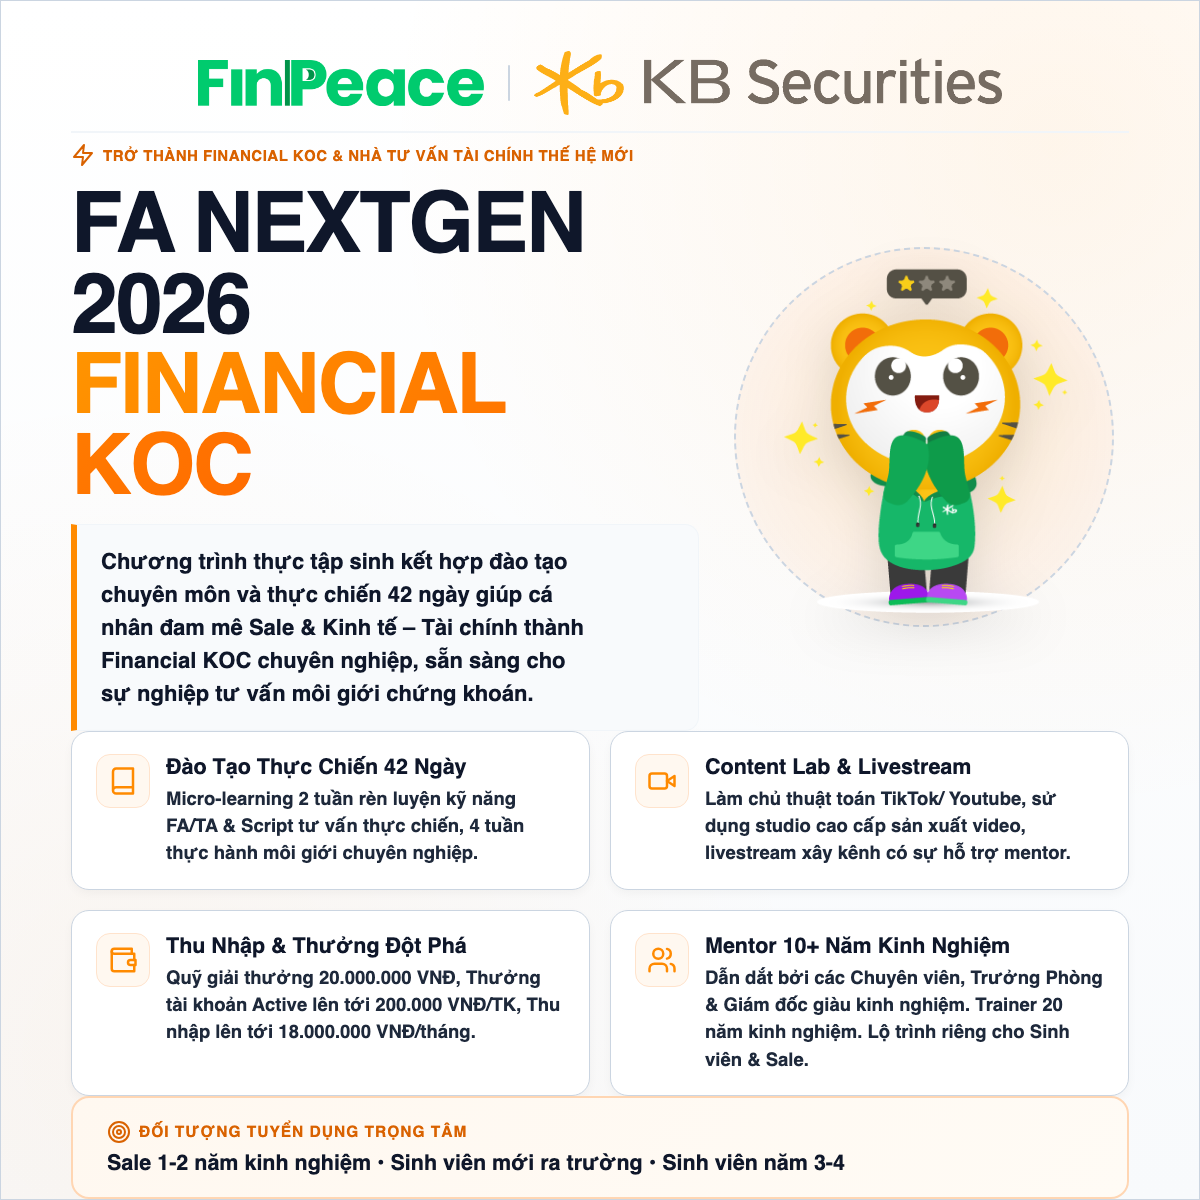
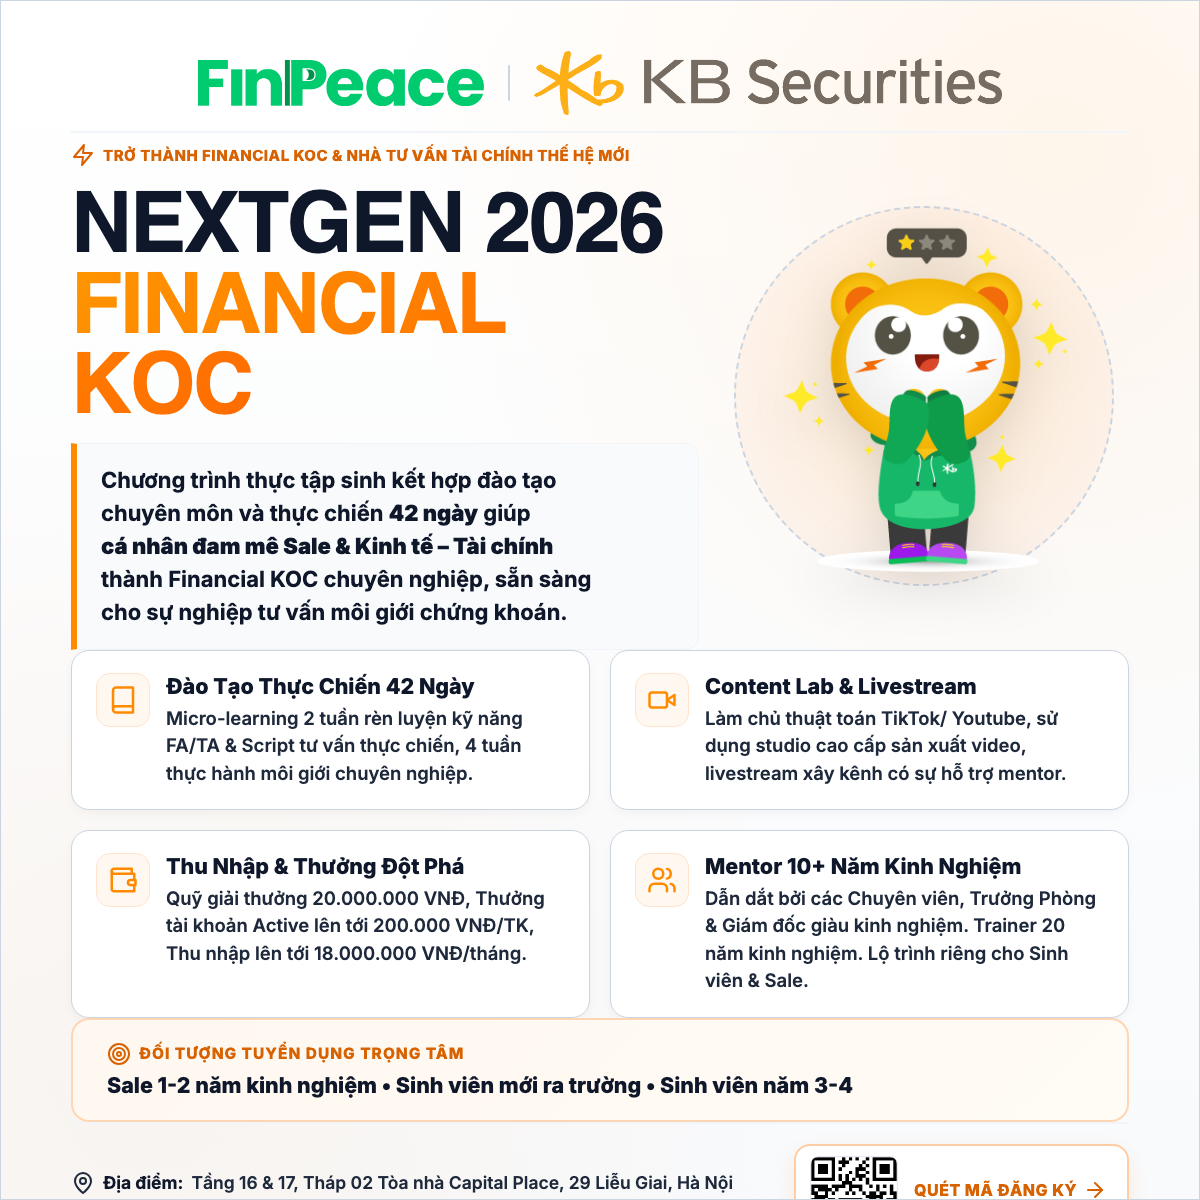
Update program branding name from FA NextGen 2026 to NextGen 2026 across all files

diff --git a/index.html b/index.html
@@ -3,11 +3,11 @@
 <head>
     <meta charset="UTF-8">
     <meta name="viewport" content="width=device-width, initial-scale=1.0">
-    <title>FA NextGen 2026 – Tuyển dụng Chuyên viên Tư vấn Đầu tư Thế hệ Mới</title>
-    <meta name="description" content="FA NextGen 2026 – Chương trình thực tập sinh kết hợp đào tạo chuyên môn và thực chiến 42 ngày giúp cá nhân đam mê Sale hoặc yêu thích làm việc trong các lĩnh vực Kinh tế – Tài chính thành Financial KOC chuyên nghiệp, sẵn sàng cho sự nghiệp tư vấn môi giới đầu tư chứng khoán. Đăng ký ngay!">
-    <meta name="keywords" content="FA NextGen 2026, KBSV, FinPeace, tuyển dụng, chứng khoán, Financial KOC, sale, sinh viên, đào tạo, KB Securities, thực tập">
-    <meta property="og:title" content="FA NextGen 2026 – Thế hệ Tư vấn - Môi giới Không Giới Hạn">
-    <meta property="og:description" content="FA NextGen 2026 – Chương trình thực tập sinh kết hợp đào tạo chuyên môn và thực chiến 42 ngày giúp cá nhân đam mê Sale hoặc yêu thích làm việc trong các lĩnh vực Kinh tế – Tài chính thành Financial KOC chuyên nghiệp, sẵn sàng cho sự nghiệp tư vấn môi giới đầu tư chứng khoán.">
+    <title>NextGen 2026 – Tuyển dụng Chuyên viên Tư vấn Đầu tư Thế hệ Mới</title>
+    <meta name="description" content="NextGen 2026 – Chương trình thực tập sinh kết hợp đào tạo chuyên môn và thực chiến 42 ngày giúp cá nhân đam mê Sale hoặc yêu thích làm việc trong các lĩnh vực Kinh tế – Tài chính thành Financial KOC chuyên nghiệp, sẵn sàng cho sự nghiệp tư vấn môi giới đầu tư chứng khoán. Đăng ký ngay!">
+    <meta name="keywords" content="NextGen 2026, KBSV, FinPeace, tuyển dụng, chứng khoán, Financial KOC, sale, sinh viên, đào tạo, KB Securities, thực tập">
+    <meta property="og:title" content="NextGen 2026 – Thế hệ Tư vấn - Môi giới Không Giới Hạn">
+    <meta property="og:description" content="NextGen 2026 – Chương trình thực tập sinh kết hợp đào tạo chuyên môn và thực chiến 42 ngày giúp cá nhân đam mê Sale hoặc yêu thích làm việc trong các lĩnh vực Kinh tế – Tài chính thành Financial KOC chuyên nghiệp, sẵn sàng cho sự nghiệp tư vấn môi giới đầu tư chứng khoán.">
     <meta property="og:type" content="website">
     <meta property="og:image" content="https://nextgen.finpeace.cloud/assets/images/og-share.png?v=3">
     <meta property="og:image:width" content="1200">
@@ -74,7 +74,7 @@
                 <li><a href="#apply" class="nav-link nav-cta">Đăng ký ngay</a></li>
                 <li class="menu-mobile-footer">
                     <div class="mobile-menu-contact">
-                        <p class="mobile-contact-title">FA NextGen 2026</p>
+                        <p class="mobile-contact-title">NextGen 2026</p>
                         <p class="mobile-contact-phone">Hotline: 056 3959999</p>
                         <p class="mobile-contact-address">Tầng 16 & 17, Capital Place, Số 29 Liễu Giai, Hà Nội</p>
                     </div>
@@ -103,8 +103,8 @@
                     Đang tuyển dụng – Season 1
                 </div>
                 <h1 class="hero-title">
-                    <span class="title-line">FA</span>
-                    <span class="title-line title-accent">NextGen 2026</span>
+                    <span class="title-line">NextGen</span>
+                    <span class="title-line title-accent">2026</span>
                 </h1>
                 <p class="hero-tagline">Thế hệ Tư vấn - Môi giới <strong>Không Giới Hạn</strong></p>
                 <p class="hero-desc">Chương trình thực tập sinh kết hợp đào tạo chuyên môn và thực chiến <strong>42 ngày</strong> giúp cá nhân đam mê Sale & <strong>Kinh tế – Tài chính</strong> thành <strong>Financial KOC</strong> chuyên nghiệp, sẵn sàng cho sự nghiệp <span style="white-space: nowrap;"><strong>tư vấn môi giới chứng khoán.</strong></span></p>
@@ -181,7 +181,7 @@
             <div class="section-header reveal">
                 <span class="section-tag">Chương trình</span>
                 <h2 class="section-title">Từ đam mê →<br><span class="text-accent">Financial KOC</span> trong 42 ngày</h2>
-                <p class="section-subtitle">Tại FA NextGen 2026, bạn không chỉ học kiến thức chứng khoán – bạn sẽ trực tiếp sản xuất content, livestream tư vấn, và từng bước xây dựng cộng đồng nhà đầu tư của riêng mình.</p>
+                <p class="section-subtitle">Tại NextGen 2026, bạn không chỉ học kiến thức chứng khoán – bạn sẽ trực tiếp sản xuất content, livestream tư vấn, và từng bước xây dựng cộng đồng nhà đầu tư của riêng mình.</p>
             </div>
             <div class="about-grid">
                 <div class="about-card reveal">
@@ -809,7 +809,7 @@
         <div class="container">
             <div class="section-header reveal">
                 <span class="section-tag">Đăng ký</span>
-                <h2 class="section-title">Sẵn sàng cùng <span class="text-accent">FA NextGen 2026</span>?</h2>
+                <h2 class="section-title">Sẵn sàng cùng <span class="text-accent">NextGen 2026</span>?</h2>
                 <p class="section-subtitle">Điền thông tin bên dưới để ứng tuyển. Chúng tôi sẽ liên hệ trong 3 ngày làm việc.</p>
             </div>
             <div class="apply-wrapper">
@@ -862,7 +862,7 @@
                             </div>
                         </div>
                         <div class="form-group">
-                            <label for="motivation">Tại sao bạn muốn tham gia FA NextGen 2026? <span class="label-hint">(bài luận chia sẻ không quá 250 từ)</span></label>
+                            <label for="motivation">Tại sao bạn muốn tham gia NextGen 2026? <span class="label-hint">(bài luận chia sẻ không quá 250 từ)</span></label>
                             <textarea id="motivation" name="motivation" rows="3" placeholder="Chia sẻ lý do bạn muốn trở thành chuyên viên tư vấn đầu tư & Financial KOC thế hệ mới..."></textarea>
                         </div>
                         <button type="submit" class="btn btn-primary btn-lg btn-full" id="submitBtn">
@@ -874,7 +874,7 @@
                     <div class="form-success" id="formSuccess" style="display: none;">
                         <img src="assets/mascot/flexi-ok.png" alt="Đăng ký thành công" class="success-mascot">
                         <h3>Đăng ký thành công!</h3>
-                        <p>Cảm ơn bạn đã quan tâm đến FA NextGen 2026. Chúng tôi sẽ liên hệ bạn sớm nhất!</p>
+                        <p>Cảm ơn bạn đã quan tâm đến NextGen 2026. Chúng tôi sẽ liên hệ bạn sớm nhất!</p>
                     </div>
                 </div>
                 <div class="apply-sidebar reveal">
@@ -953,7 +953,7 @@
                 </div>
             </div>
             <div class="footer-bottom">
-                <p>&copy; 2026 FA NextGen 2026. All rights reserved.</p>
+                <p>&copy; 2026 NextGen 2026. All rights reserved.</p>
                 <p>Chương trình được tổ chức bởi Sở Giao dịch 3 – KBSV</p>
             </div>
         </div>

diff --git a/poster.html b/poster.html
@@ -2,7 +2,7 @@
 <html lang="vi">
 <head>
     <meta charset="UTF-8">
-    <title>FA NextGen 2026 – Event Poster 1200x1200px</title>
+    <title>NextGen 2026 – Event Poster 1200x1200px</title>
     <link rel="preconnect" href="https://fonts.googleapis.com">
     <link rel="preconnect" href="https://fonts.gstatic.com" crossorigin>
     <link href="https://fonts.googleapis.com/css2?family=Inter:wght@500;600;700;800;900&family=Space+Grotesk:wght@700;800&display=swap" rel="stylesheet">
@@ -362,7 +362,7 @@
                     TRỞ THÀNH FINANCIAL KOC & NHÀ TƯ VẤN TÀI CHÍNH THẾ HỆ MỚI
                 </div>
                 <h1 class="main-title">
-                    FA NextGen 2026<br>
+                    NextGen 2026<br>
                     <span class="text-orange">FINANCIAL KOC</span>
                 </h1>
                 <div class="program-description">

diff --git a/mobile_post.html b/mobile_post.html
@@ -3,7 +3,7 @@
 <head>
     <meta charset="UTF-8">
     <meta name="viewport" content="width=device-width, initial-scale=1.0">
-    <title>FA NextGen 2026 – 42 Ngày Bứt Tốc (Mobile Post 1080x1920px)</title>
+    <title>NextGen 2026 – 42 Ngày Bứt Tốc (Mobile Post 1080x1920px)</title>
     <link rel="preconnect" href="https://fonts.googleapis.com">
     <link rel="preconnect" href="https://fonts.gstatic.com" crossorigin>
     <link href="https://fonts.googleapis.com/css2?family=Inter:wght@500;600;700;800;900&family=Space+Grotesk:wght@700;800&display=swap" rel="stylesheet">
